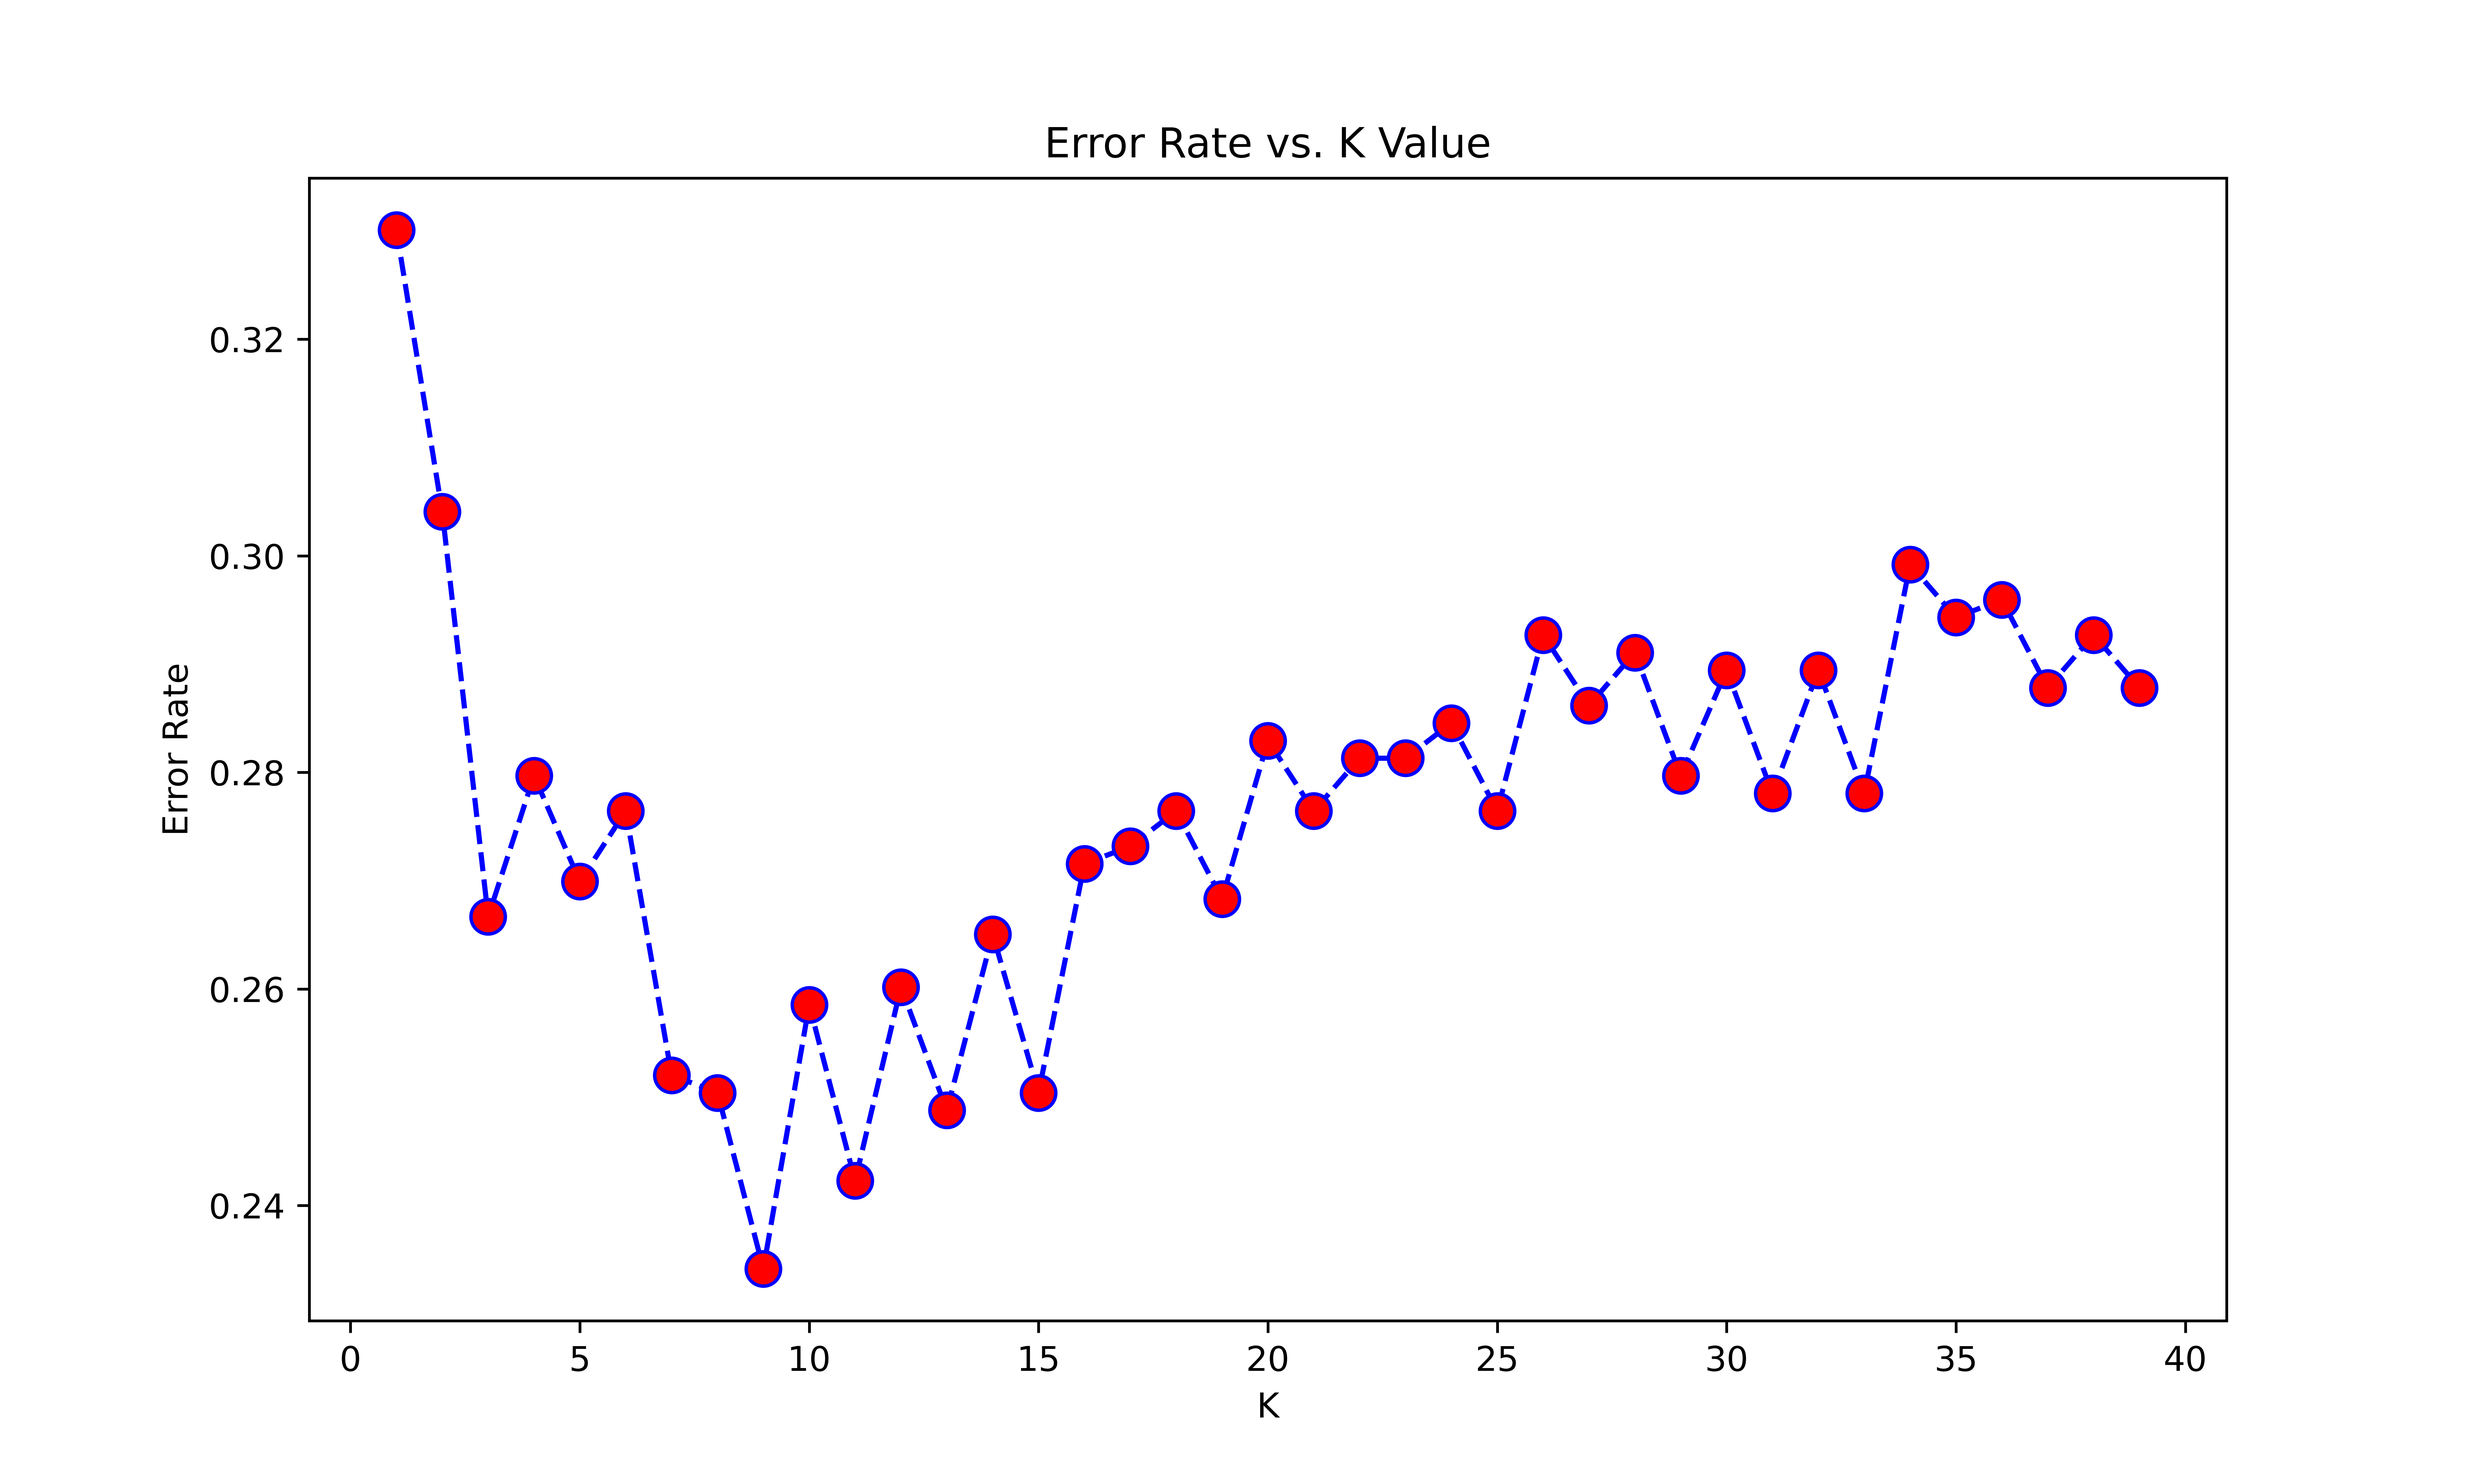
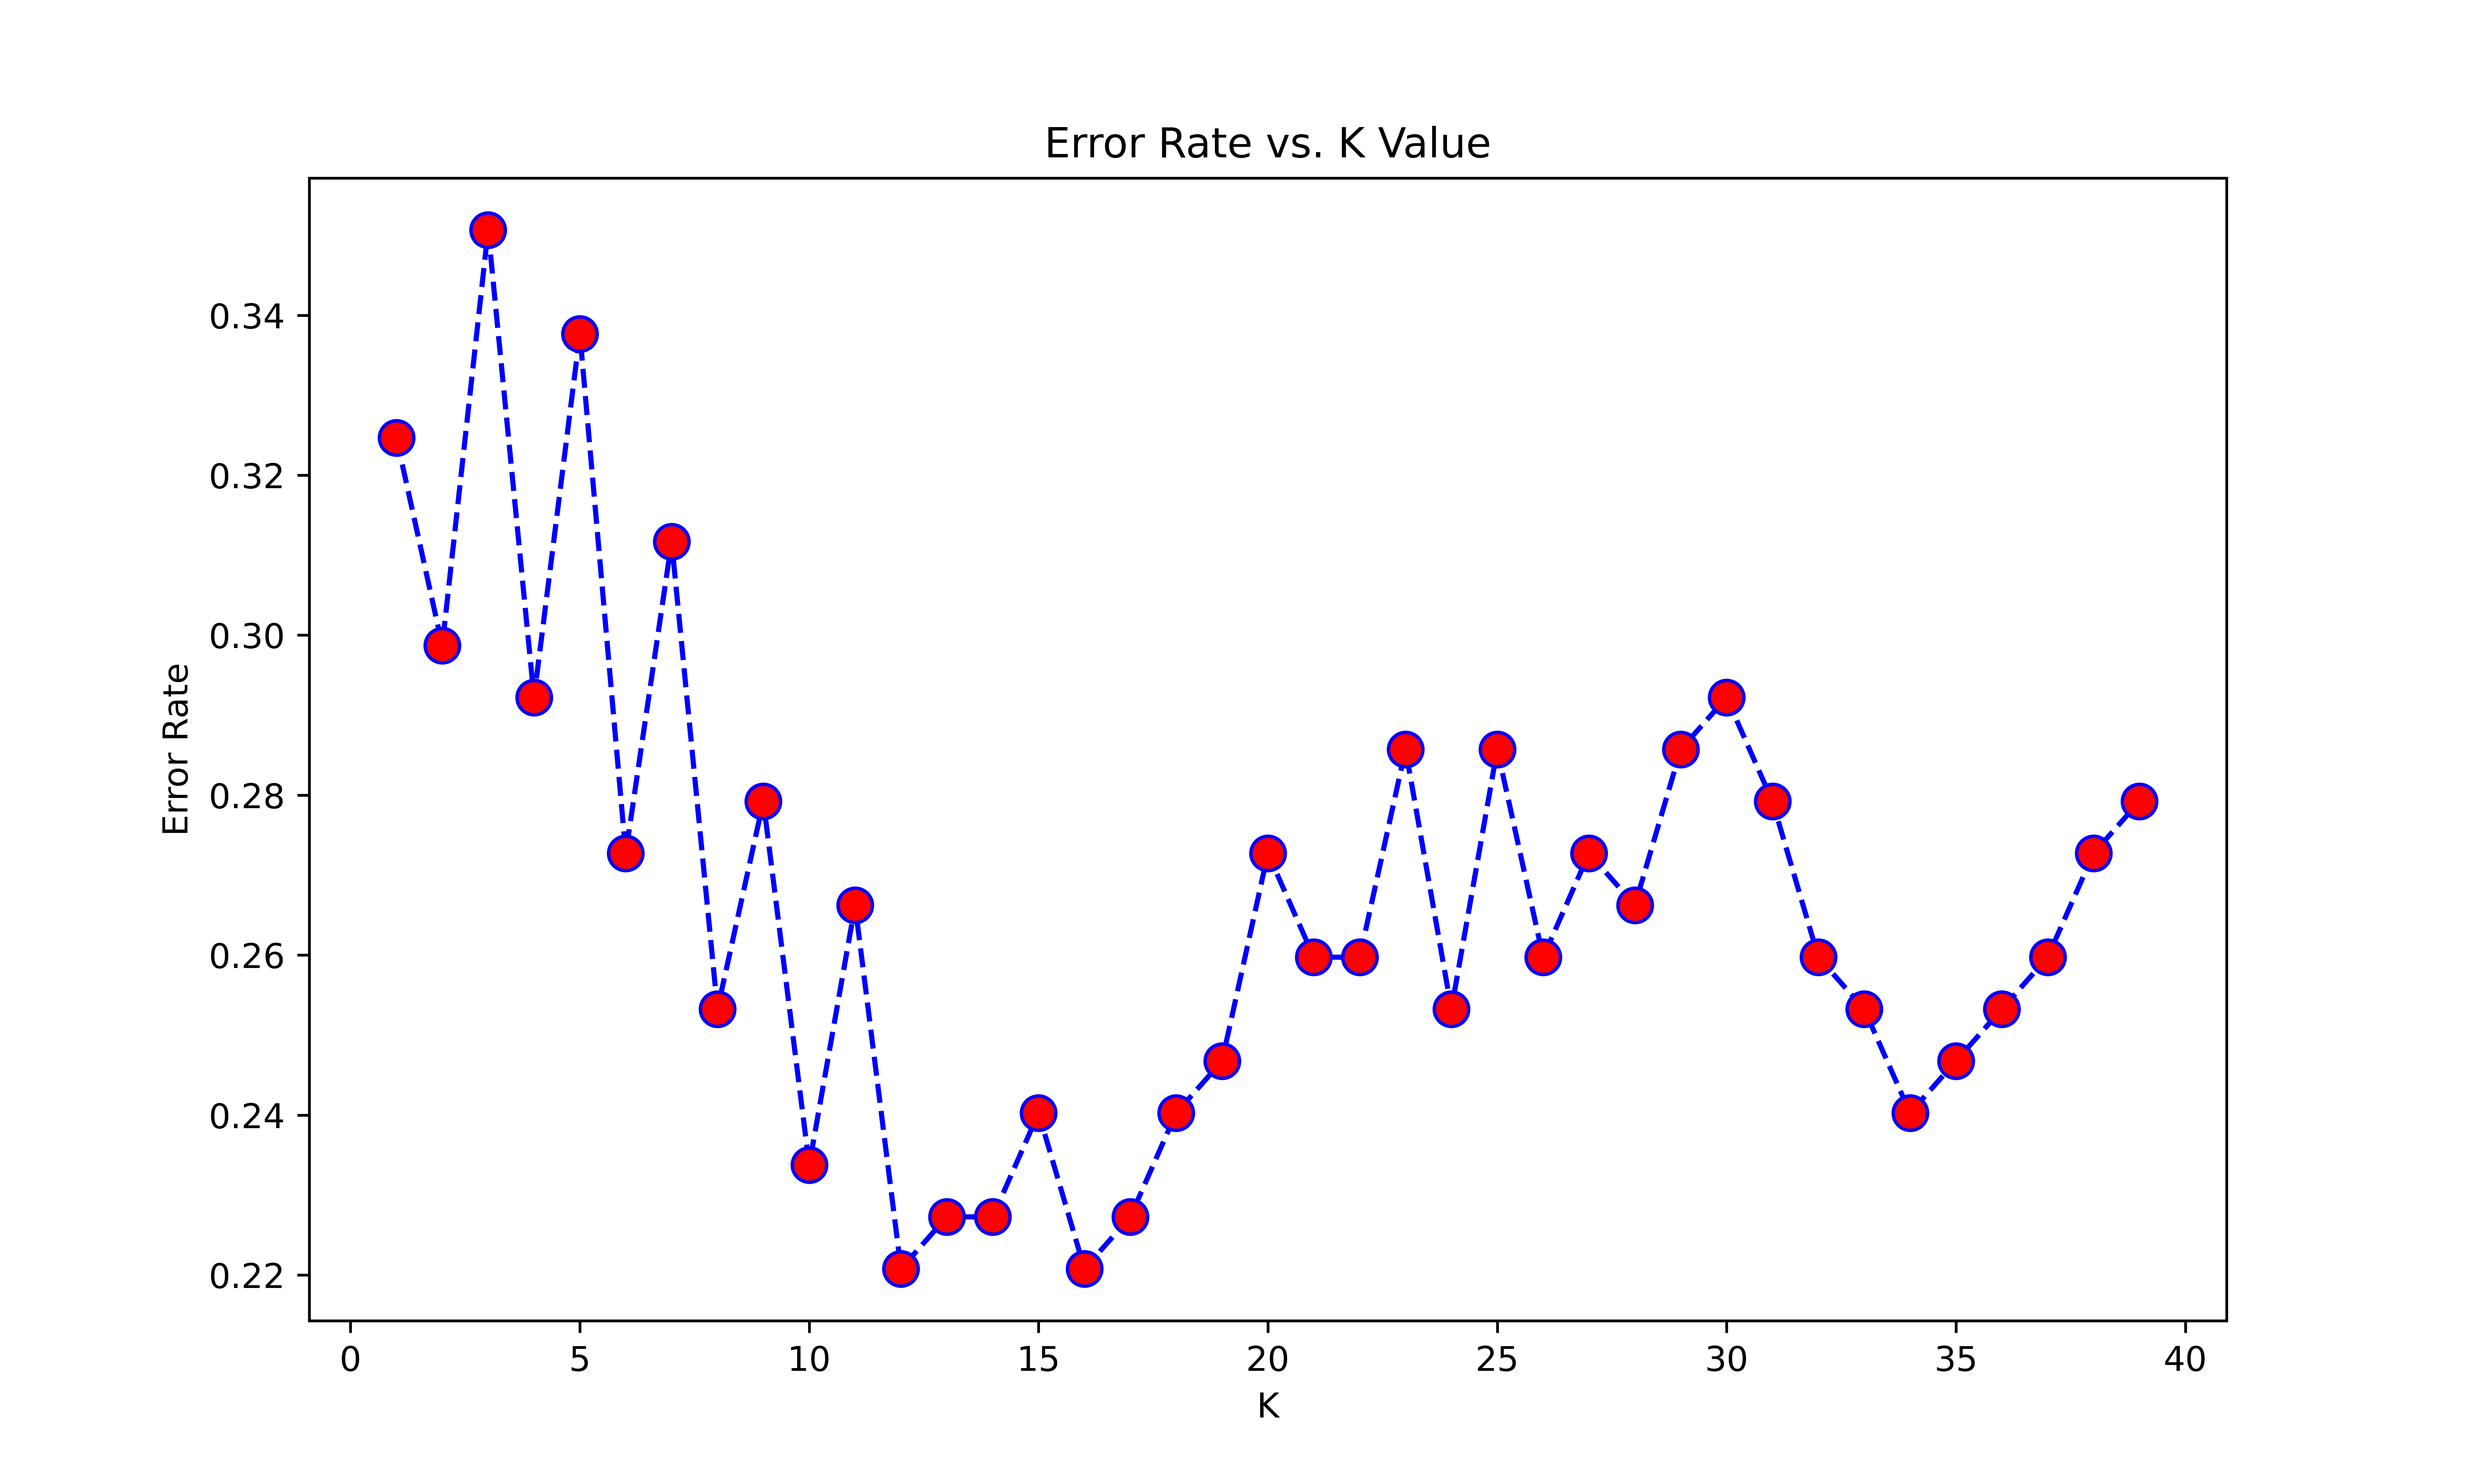
added plots

diff --git a/svm/SVM.py b/svm/SVM.py
@@ -1,22 +1,39 @@
 import pandas as pd
+import matplotlib.pyplot as plt
+import numpy as np
 from sklearn.model_selection import train_test_split
 from sklearn.svm import SVC
 from sklearn.metrics import classification_report, accuracy_score
 
 # url = "https://raw.githubusercontent.com/jbrownlee/Datasets/master/pima-indians-diabetes.data.csv"
-columns = ['Pregnancies', 'Glucose', 'BloodPressure', 'SkinThickness', 'Insulin', 'BMI', 'DiabetesPedigreeFunction', 'Age', 'Outcome']
+# columns = ['Pregnancies', 'Glucose', 'BloodPressure', 'SkinThickness', 'Insulin', 'BMI', 'DiabetesPedigreeFunction', 'Age', 'Outcome']
 data = pd.read_csv("../data/diabetes.csv")
-# data = pd.read_csv("../data/pima-indians-diabetes.data.csv", names=columns)
 
-X = data.iloc[:, :-1] 
-y = data.iloc[:, -1]  
+X = data.iloc[:, :-1]
+y = data.iloc[:, -1]
 
 X_train, X_test, y_train, y_test = train_test_split(X, y, test_size=0.2, random_state=42)
 
-svm_model = SVC(kernel='rbf', C=1.0, gamma='scale', random_state=42)
+svm_model = SVC(kernel='rbf', random_state=42)
 svm_model.fit(X_train, y_train)
 
 y_pred = svm_model.predict(X_test)
 
 print("Accuracy:", accuracy_score(y_test, y_pred))
 print("\nClassification Report:\n", classification_report(y_test, y_pred, target_names=['No Diabetes', 'Diabetes']))
+
+accuracy = []
+
+for i in ["linear", "poly", "rbf", "sigmoid" ]:
+    svm_model = SVC(kernel=i, random_state=42)
+    svm_model.fit(X_train, y_train)
+    pred_i = svm_model.predict(X_test)
+    accuracy.append(accuracy_score(y_test, pred_i))
+    print(accuracy)
+
+plt.figure(figsize=(10, 6))
+plt.plot(["linear", "poly", "rbf", "sigmoid" ], accuracy, color='blue', linestyle='dashed', marker='o', markerfacecolor='red', markersize=10)
+plt.title('Accuracy vs. Algorithm')
+plt.xlabel('Algorithm')
+plt.ylabel('Accuracy')
+plt.savefig('plot.png', dpi=800)

diff --git a/DecisionTrees/DecisionTrees.py b/DecisionTrees/DecisionTrees.py
@@ -14,7 +14,7 @@ y = data.iloc[:, -1]
 
 X_train, X_test, y_train, y_test = train_test_split(X, y, test_size=0.2, random_state=42)
 
-dt_model = DecisionTreeClassifier(criterion='gini', max_depth=7, random_state=42)
+dt_model = DecisionTreeClassifier(criterion='gini', max_depth=5, random_state=42)
 dt_model.fit(X_train, y_train)
 
 y_pred = dt_model.predict(X_test)
@@ -26,3 +26,26 @@ plt.figure(figsize=(16, 10))
 plot_tree(dt_model, feature_names=columns[:-1], class_names=['No Diabetes', 'Diabetes'], filled=True)
 plt.title("Decision Tree Visualization")
 plt.savefig('plot.png', dpi=800)
+
+max_depths = list(range(1, 21))
+error_rates = []
+
+for max_depth in max_depths:
+    dt_model = DecisionTreeClassifier(criterion='gini', max_depth=max_depth, random_state=42)
+    dt_model.fit(X_train, y_train)
+
+    y_pred = dt_model.predict(X_test)
+
+    error_rate = 1 - accuracy_score(y_test, y_pred)
+    error_rates.append(error_rate)
+
+plt.figure(figsize=(10, 6))
+plt.plot(max_depths, error_rates, marker='o', color='b', linestyle='-', linewidth=2)
+plt.title('Effect of Max Depth on Error Rate (Decision Tree)', fontsize=14)
+plt.xlabel('Max Depth', fontsize=12)
+plt.ylabel('Error Rate', fontsize=12)
+plt.grid(True)
+plt.xticks(max_depths)
+plt.tight_layout()
+
+plt.savefig('plot_error.png', dpi=800)

diff --git a/knn/Knn.py b/knn/Knn.py
@@ -1,7 +1,6 @@
 import pandas as pd
 import numpy as np
 from sklearn.model_selection import train_test_split
-from sklearn.preprocessing import StandardScaler
 from sklearn.neighbors import KNeighborsClassifier
 from sklearn.metrics import classification_report, accuracy_score
 import matplotlib.pyplot as plt
@@ -16,13 +15,9 @@ data = pd.read_csv("../data/diabetes.csv")
 X = data.iloc[:, :-1]
 y = data.iloc[:, -1]
 
-X_train, X_test, y_train, y_test = train_test_split(X, y, test_size=0.8, random_state=1)
+X_train, X_test, y_train, y_test = train_test_split(X, y, test_size=0.2, random_state=42)
 
-scaler = StandardScaler()
-X_train = scaler.fit_transform(X_train)
-X_test = scaler.transform(X_test)
-
-knn = KNeighborsClassifier(n_neighbors=5)
+knn = KNeighborsClassifier(n_neighbors=16)
 knn.fit(X_train, y_train)
 
 y_pred = knn.predict(X_test)
